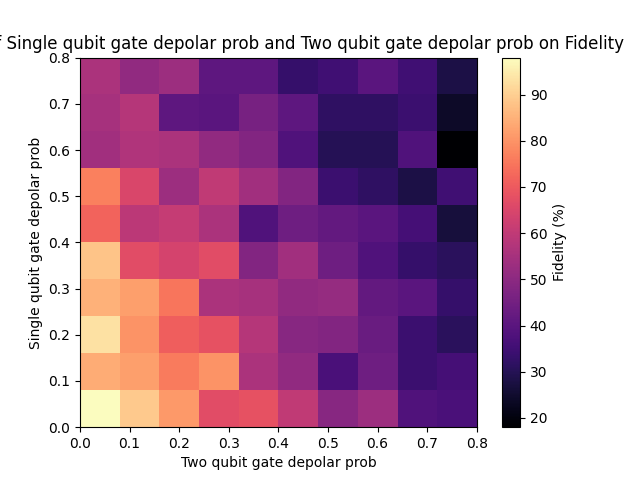
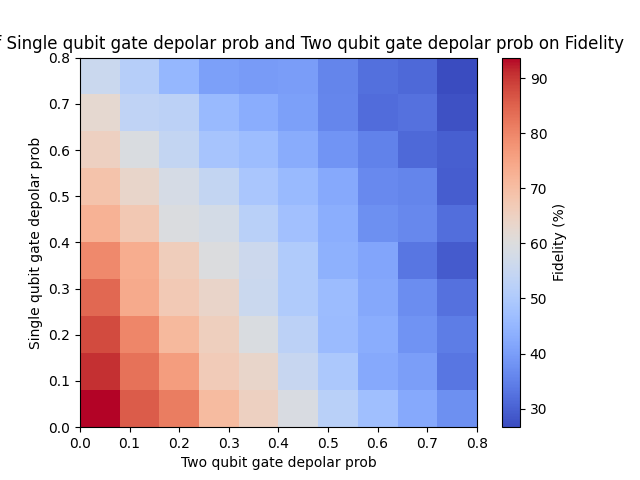
fix teleportation

diff --git a/run_simulation.py b/run_simulation.py
@@ -62,12 +62,12 @@ def main():
 
     # Parse ranges
     param1_range = (
-        parse_range(args.param1_range)
+        parse_range(args.plot_parameter_effects, args.param1_range)
         if args.param1_range
         else np.linspace(0.0, 0.8, 10)
     )
     param2_range = (
-        parse_range(args.param2_range)
+        parse_range(args.plot_parameter_effects, args.param2_range)
         if args.param2_range
         else np.linspace(0.0, 0.8, 10)
     )
@@ -86,13 +86,18 @@ def main():
         calculate_average_fidelity(cfg, args.method, args.epr_rounds, args.num_experiments)
 
 
-def parse_range(range_str):
+def parse_range(params, range_str):
     """Parse a range string in the format 'start,end,points'."""
-    if not range_str:
+    if not range_str or not params:
         return None
     try:
+        param1, param2 = params
+        log_scale_params = ['T1', 'T2', 'length']
         start, end, points = map(float, range_str.split(","))
-        return np.linspace(start, end, int(points))
+        if param1 in log_scale_params or param2 in log_scale_params:
+            return np.logspace(start, end, int(points))
+        else:
+            return np.linspace(start, end, int(points))
     except ValueError:
         print("Ranges must be in the format 'start,end,points', with numeric values.")
 
@@ -110,6 +115,7 @@ def analyze_two_parameters(
     os.makedirs(output_dir, exist_ok=True)
 
     param1, param2 = params_to_plot
+    depolarise_link_param = ['fidelity', 'prob_succcess']
 
     # Initialize fidelity matrix
     fidelity_matrix = np.zeros((len(param1_values), len(param2_values)))
@@ -118,10 +124,14 @@ def analyze_two_parameters(
     for i, val1 in enumerate(param1_values):
         for j, val2 in enumerate(param2_values):
             try:
-                cfg.stacks[0].qdevice_cfg[param1] = val1
-                cfg.stacks[0].qdevice_cfg[param2] = val2
+                if param1 in depolarise_link_param or param2 in depolarise_link_param:
+                    cfg.links[0].cfg[param1] = val1
+                    cfg.links[0].cfg[param2] = val2
+                else:
+                    cfg.stacks[0].qdevice_cfg[param1] = val1
+                    cfg.stacks[0].qdevice_cfg[param2] = val2
 
-                _, fidelities = run(
+                _, results = run(
                     config=cfg,
                     programs={
                         "Alice": AliceProgram(num_epr_rounds=epr_rounds),
@@ -129,11 +139,11 @@ def analyze_two_parameters(
                     },
                     num_times=num_experiments,
                 )
-                fidelity_matrix[i, j] = np.average(fidelities) * 100
+                results = [results[i][0] for i in range(len(results))]
+                fidelity_matrix[i, j] = np.average(results) * 100
             except ValueError as e:
                 print(f"Skipping {param1}={val1}, {param2}={val2}: {e}")
                 fidelity_matrix[i, j] = 0
-
     plot_2d_heatmap(
         param1, param2, param1_values, param2_values, fidelity_matrix, output_dir
     )
@@ -143,12 +153,12 @@ def calculate_average_fidelity(cfg, method, epr_rounds, num_experiments):
     """Calculate and print the average fidelity over multiple experiments."""
     try:
         if method == "teleportation":
-            alice_method = AliceTeleportation(num_epr_rounds=1)
-            bob_method = BobTeleportation(num_epr_rounds=1)
+            alice_method = AliceTeleportation(num_epr_rounds=epr_rounds)
+            bob_method = BobTeleportation(num_epr_rounds=epr_rounds)
         else:
             alice_method = AliceProgram(num_epr_rounds=epr_rounds)
             bob_method = BobProgram(num_epr_rounds=epr_rounds)
-        _, fidelities = run(
+        _, results = run(
             config=cfg,
             programs={
                 "Alice": alice_method,
@@ -156,9 +166,16 @@ def calculate_average_fidelity(cfg, method, epr_rounds, num_experiments):
             },
             num_times=num_experiments,
         )
+        print(f"Method used: {method}")
+        fidelities = [results[i][0] for i in range(len(results))]
+        simulation_times = [results[i][1] for i in range(len(results))]
         avg_fidelity = np.average(fidelities) * 100
+        avg_simulation_times = np.average(simulation_times)
         print(
             f"Average fidelity over {num_experiments} experiments: {avg_fidelity:.2f}%"
+        )
+        print(
+            f"Average simulation time over {num_experiments} experiments: {avg_simulation_times:.2f} ms"
         )
     except ValueError as e:
         print(f"Error during simulation: {e}")
@@ -179,7 +196,7 @@ def plot_2d_heatmap(
         ],
         origin="lower",
         aspect="auto",
-        cmap="magma",
+        cmap="coolwarm"
     )
     plt.colorbar(label="Fidelity (%)")
     plt.title(

diff --git a/teleportation.py b/teleportation.py
@@ -4,6 +4,7 @@ from netqasm.sdk.connection import BaseNetQASMConnection
 from netqasm.sdk.epr_socket import EPRSocket
 from netqasm.sdk.qubit import Qubit
 from netsquid.qubits.dmutil import dm_fidelity
+from netsquid.util.simtools import sim_time, MILLISECOND
 from squidasm.sim.stack.program import Program, ProgramContext, ProgramMeta
 from squidasm.util import get_qubit_state
 
@@ -37,7 +38,6 @@ class AliceTeleportation(Program):
 
             # Create a local qubit which is the control qubit of the distributed CNOT gate
             alice_qubit = Qubit(connection)
-            alice_qubit.reset()
             alice_qubit.X()
 
             # Perfom a CNOT gate between alice qubit and her shared entangled qubit a1
@@ -48,13 +48,11 @@ class AliceTeleportation(Program):
             a1_measurement = a1_qubit.measure()
             alice_measurement = alice_qubit.measure()
             yield from connection.flush()
-           
+
             # Alice send her measurements to Bob on a classical channel
             csocket.send(str(a1_measurement))
             csocket.send(str(alice_measurement))
-          
             yield from connection.flush()
-            alice_qubit.free()
 
         return {}
 
@@ -83,6 +81,7 @@ class BobTeleportation(Program):
         connection: BaseNetQASMConnection = context.connection
 
         fidelities = []
+        simulation_times = []
         for _ in range(self._num_epr_rounds):
             # Listen for request to create EPR pair
             b1_qubit = epr_socket.recv_keep()[0]
@@ -91,7 +90,6 @@ class BobTeleportation(Program):
 
             # Create a local qubit which is the target qubit of the distributed CNOT gate
             bob_qubit = Qubit(connection)
-            bob_qubit.reset()
 
             # Bob listens the classical channel to get the measurements from Alice
             a1_measurement = yield from csocket.recv()
@@ -103,22 +101,21 @@ class BobTeleportation(Program):
                 b1_qubit.Z()
 
             b1_qubit.cnot(bob_qubit)
+            b1_qubit.measure()
             yield from connection.flush()
-            a = bob_qubit.measure()
-            yield from connection.flush()
-            fidelities.append(a)
-            '''
+
             dm_b = get_qubit_state(bob_qubit, "Bob", full_state=True)
  
             # Create the perfect resulting density matrix to assess the fidelity
-            state_ref = np.array([0, 0, 0, 1], dtype=complex)
+            state_ref = np.array([0, 1], dtype=complex)
             dm_ref = np.outer(state_ref, np.conjugate(state_ref))
 
             # Compute the fidelity between the two density matrices
             fidelity = dm_fidelity(dm_b, dm_ref)
             fidelities.append(fidelity)
-            '''
-            yield from connection.flush()
-            bob_qubit.free()
 
-        return fidelities
+            bob_qubit.free()
+            yield from connection.flush()
+            simulation_times.append(sim_time(MILLISECOND))
+
+        return fidelities, simulation_times

diff --git a/application.py b/application.py
@@ -4,7 +4,7 @@ from netqasm.sdk.connection import BaseNetQASMConnection
 from netqasm.sdk.epr_socket import EPRSocket
 from netqasm.sdk.qubit import Qubit
 from netsquid.qubits.dmutil import dm_fidelity
-from netsquid.util.simtools import sim_time
+from netsquid.util.simtools import sim_time, MILLISECOND
 from squidasm.sim.stack.program import Program, ProgramContext, ProgramMeta
 from squidasm.util import get_qubit_state
 
@@ -38,7 +38,6 @@ class AliceProgram(Program):
 
             # Create a local qubit which is the control qubit of the distributed CNOT gate
             alice_qubit = Qubit(connection)
-            alice_qubit.reset()
             alice_qubit.X()
 
             # Perfom a CNOT gate between alice qubit and her shared entangled qubit a1
@@ -86,6 +85,7 @@ class BobProgram(Program):
         connection: BaseNetQASMConnection = context.connection
 
         fidelities = []
+        simulation_times = []
         for _ in range(self._num_epr_rounds):
             # Listen for request to create EPR pair
             b1_qubit = epr_socket.recv_keep()[0]
@@ -94,7 +94,6 @@ class BobProgram(Program):
 
             # Create a local qubit which is the target qubit of the distributed CNOT gate
             bob_qubit = Qubit(connection)
-            bob_qubit.reset()
 
             # Bob listens the classical channel to get the measurement from Alice
             a1_measurement = yield from csocket.recv()
@@ -123,5 +122,6 @@ class BobProgram(Program):
 
             bob_qubit.free()
             yield from connection.flush()
+            simulation_times.append(sim_time(MILLISECOND))
 
-        return fidelities
+        return fidelities, simulation_times

diff --git a/README.md b/README.md
@@ -15,13 +15,13 @@ python run_simulation.py --config configurations/config.yaml
 ```
 
 ```bash
-python run_simulation.py --config configurations/generic_qdevice.yaml --plot_parameter_effects single_qubit_gate_depolar_prob two_qubit_gate_depolar_prob
+python run_simulation.py --config configurations/generic_qdevice.yaml --plot_parameter_effects single_qubit_gate_depolar_prob two_qubit_gate_depolar_prob --num_experiments 100
 ```
 
 ```bash
-python run_simulation.py --config configurations/depolarise_link.yaml --plot_parameter_effects fidelity prob_success --param1_range 1.0,0.3,10 --param2_range 1.0,0.1,10
+python run_simulation.py --config configurations/depolarise_link.yaml --plot_parameter_effects fidelity prob_success --param1_range 1.0,0.3,10 --param2_range 1.0,0.1,10 --num_experiments 100
 ```
 
 ```bash
-python run_simulation.py --config configurations/heralded_link.yaml --plot_parameter_effects length p_loss_length --param1_range 1.0,20.0,10 --param2_range 0.1,0.8,10
+python run_simulation.py --config configurations/config.yaml --plot_parameter_effects length T1 --param1_range 1,10,10 --param2_range 7,9,10
 ```
